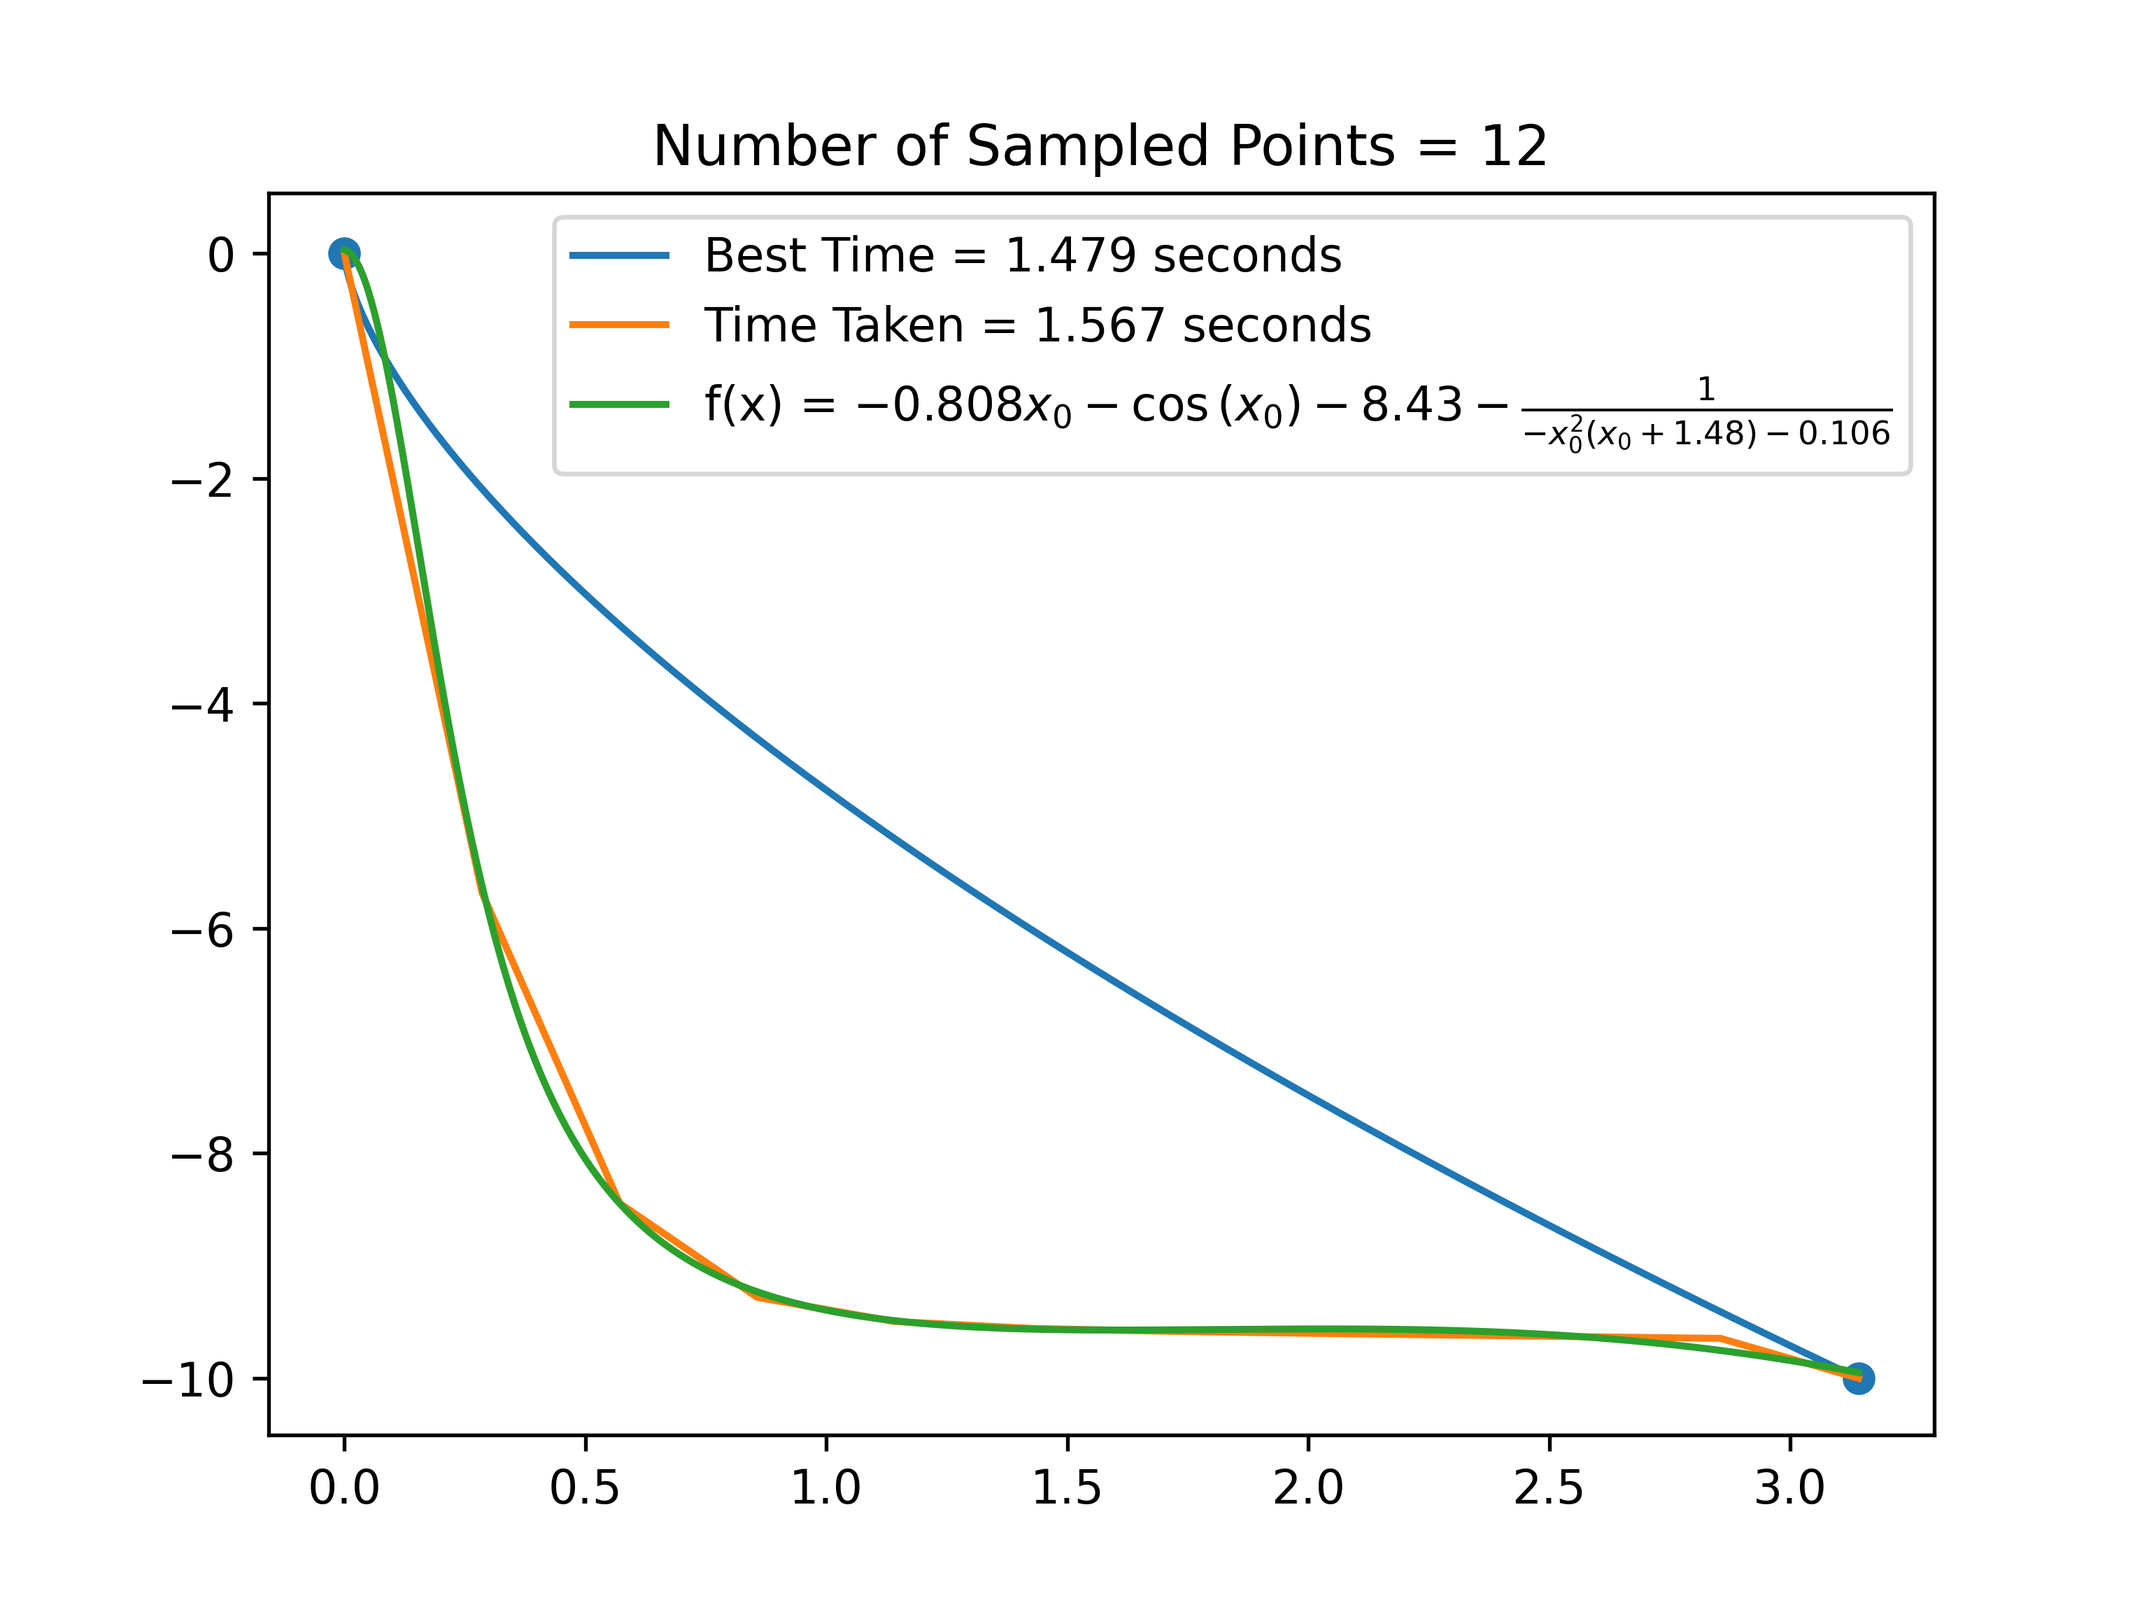
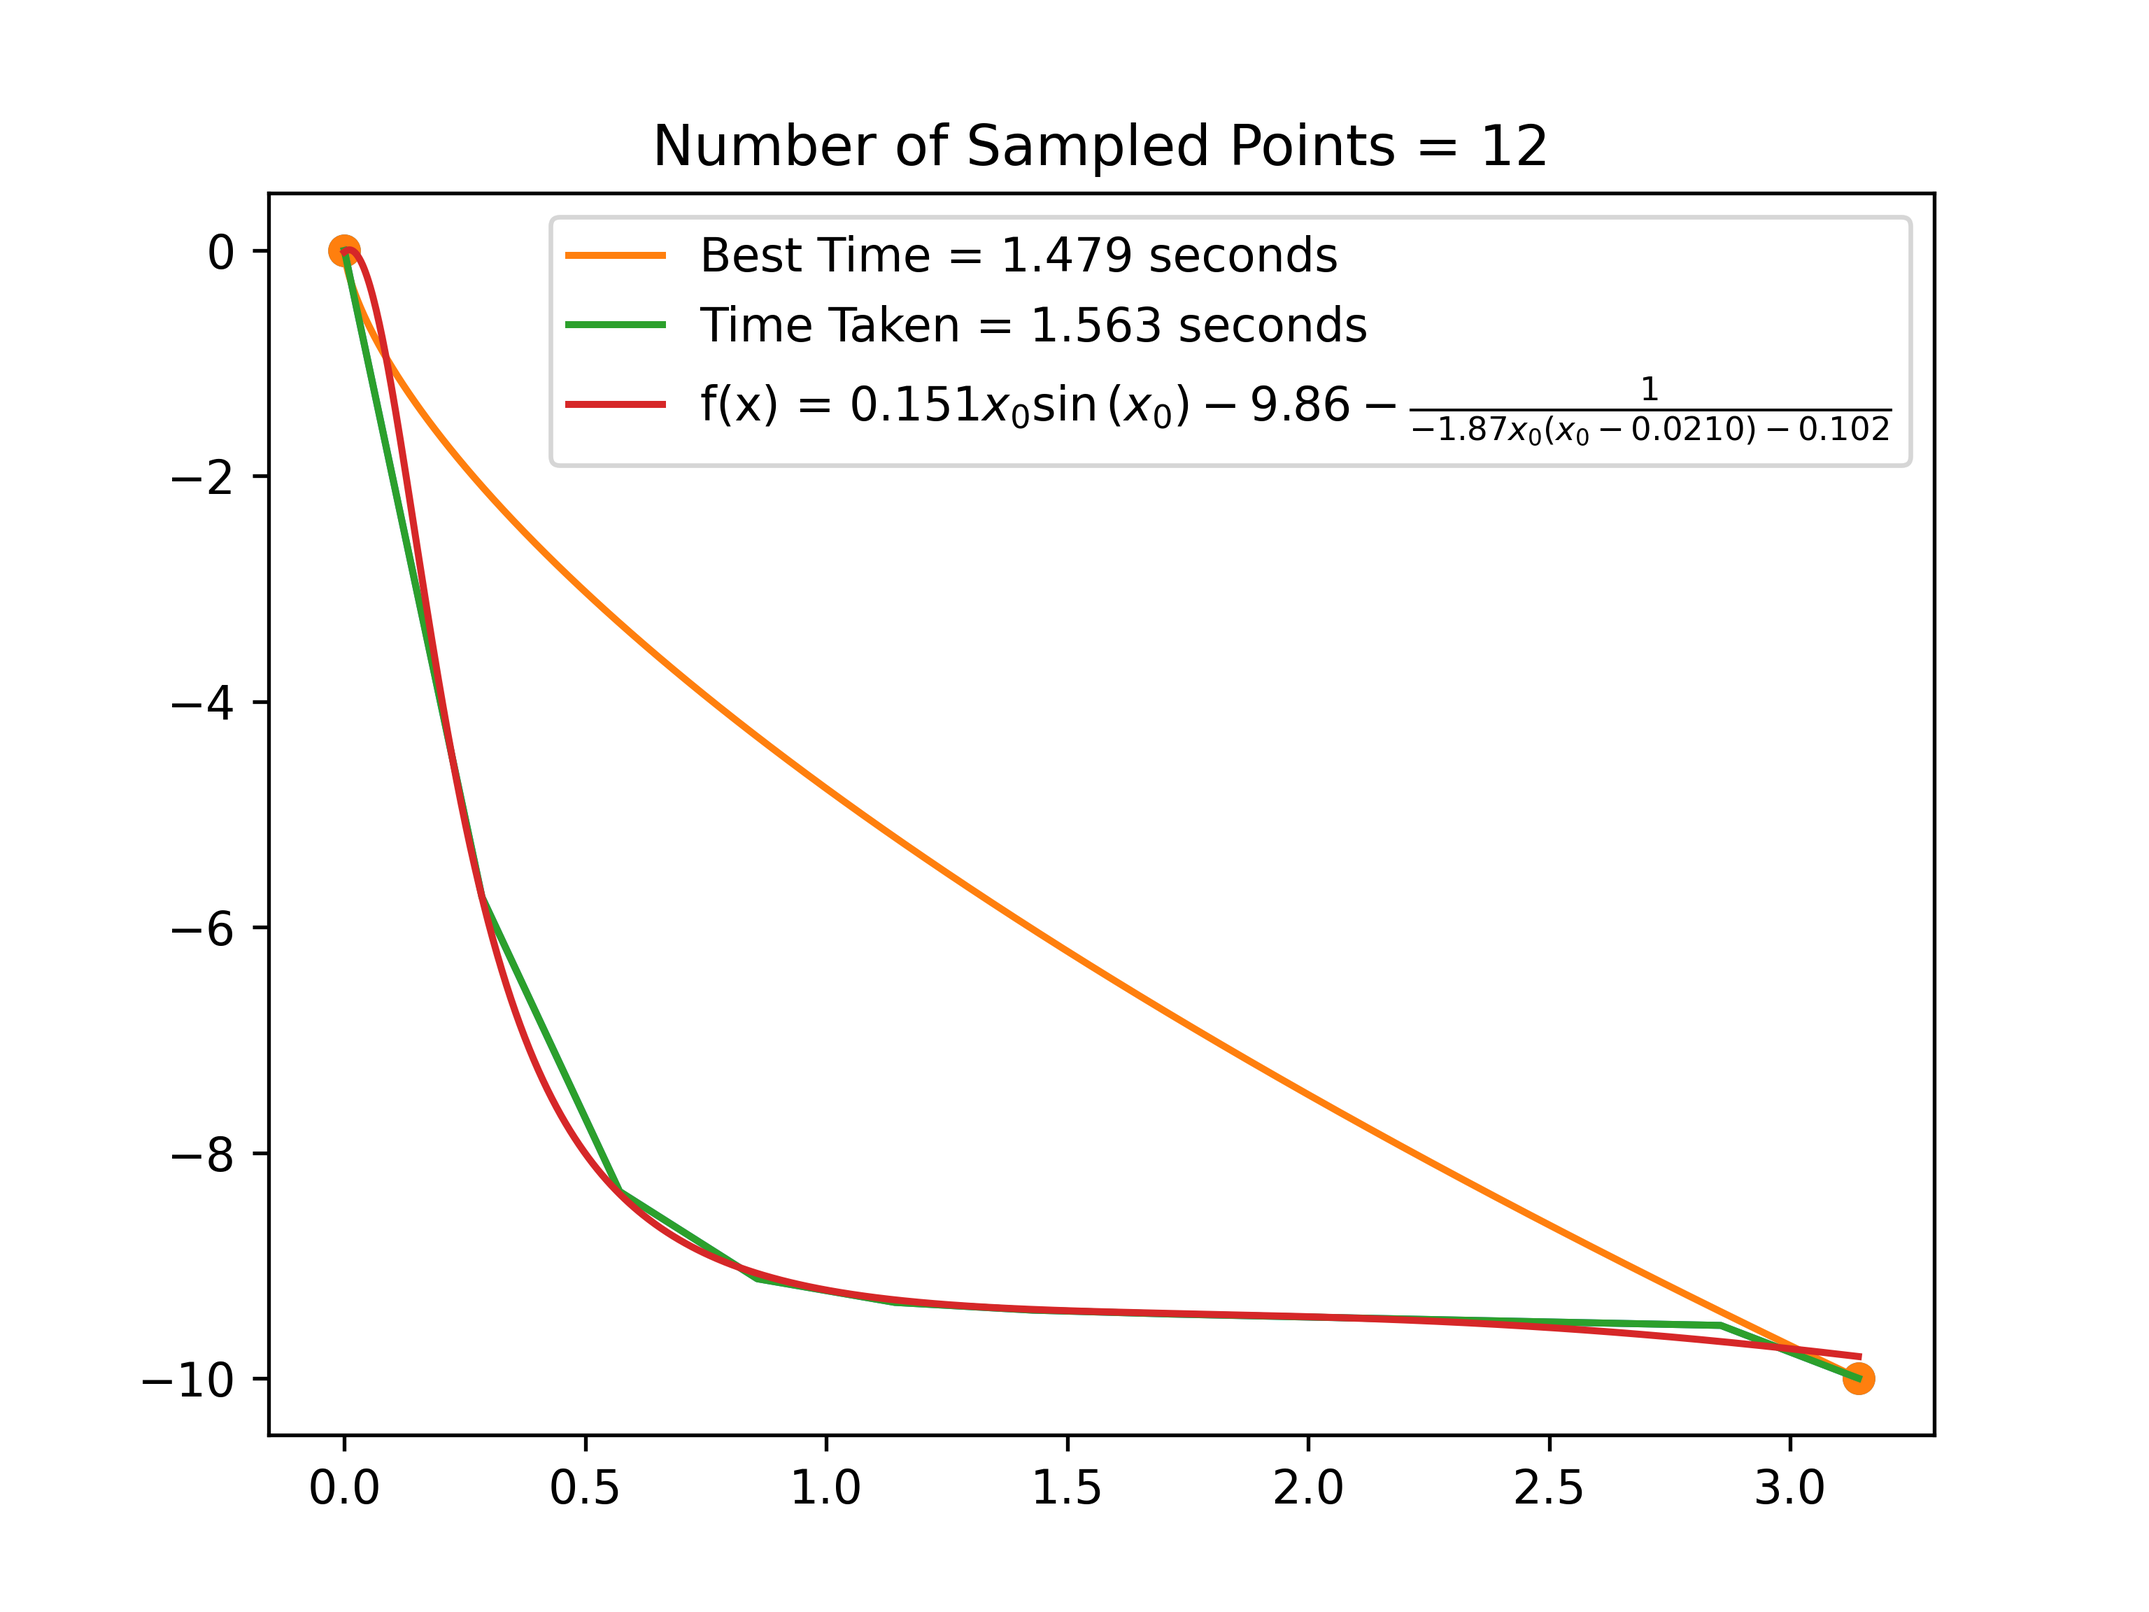
Added optimization to deap

diff --git a/RL_Brachistochrone_DSR.py b/RL_Brachistochrone_DSR.py
@@ -15,11 +15,10 @@ non-parametric form of the Brachistochrone
 # if hasattr(critic.output, '__len__') and len(critic.output) > 1: -> if
 # hasattr(critic.output, '__shape__') and len(critic.output) > 2:
 
-import sys
-sys.setrecursionlimit(10000)
 import warnings
-import sympy as sp
-from sympy import sin, cos
+import sys
+from sympy.utilities.lambdify import lambdify
+from sympy import symbols
 from rl.memory import SequentialMemory
 from rl.policy import BoltzmannQPolicy
 from rl.agents import DDPGAgent
@@ -33,16 +32,12 @@ from time import time
 import numpy as np
 import matplotlib.pyplot as plt
 from matplotlib.animation import FuncAnimation
-from scipy.optimize import ridder, fsolve, curve_fit
+from scipy.optimize import ridder, fsolve
 from gym import Env
 from gym.spaces import Box
-import operator
-from operator import add, sub, mul
-from deap import base, creator, tools, gp, algorithms
+from pysr import PySRRegressor
 from math import isclose
-import random
 import argparse
-import re
 import tensorflow as tf
 tf.compat.v1.disable_eager_execution()
 
@@ -586,13 +581,6 @@ def build_agent(env, actor, critic, action_input):
                      memory=memory, batch_size=32)
     return ddpg
 
-def is_float(string):
-    try:
-        float(string)
-        return True
-    except ValueError:
-        return False
-
 
 if __name__ == '__main__':
     parser = argparse.ArgumentParser()
@@ -658,12 +646,11 @@ if __name__ == '__main__':
         plt.plot(X, y, label=f"Time Taken = {test.best_t:.3f} seconds")
         plt.scatter((X[0], X[-1]), (y[0], y[-1]))
 
-        np.savetxt("RL_Brachistochrone_deap.txt", np.concatenate(
+        np.savetxt("RL_Brachistochrone.txt", np.concatenate(
             (np.expand_dims(X, axis=1), np.expand_dims(y, axis=1)), axis=1))
-        np.savetxt("RL_Brachistochrone_deap_best_time.txt", np.array([test.best_t]))
-
+        np.savetxt("RL_Brachistochrone_best_time.txt", np.array([test.best_t]))
     else:  # If symbolic regression didn't go well and you want to redo it
-        best_vals = np.loadtxt("RL_Brachistochrone_deap.txt")
+        best_vals = np.loadtxt("RL_Brachistochrone.txt")
 #        best_vals = np.loadtxt("train_data_25p.csv", delimiter=',')
         X = best_vals[:, 0]
         y = best_vals[:, 1]
@@ -673,226 +660,44 @@ if __name__ == '__main__':
             (X[0], y[0]), (X[-1], y[-1]))
         plt.plot(x_points, y_points,
                  label=f"Best Time = {optimal_time:0.3f} seconds")
-        best_t = np.loadtxt("RL_Brachistochrone_deap_best_time.txt")
+        best_t = np.loadtxt("RL_Brachistochrone_best_time.txt")
         plt.plot(X, y, label=f"Time Taken = {best_t:.3f} seconds")
         plt.scatter((X[0], X[-1]), (y[0], y[-1]))
-    
+
     # Symbolic Regression
     # ===================
+    # Code Taken from Here: https://github.com/MilesCranmer/PySR
+
     X = X.reshape(-1, 1)
-    # Define custom operators and unary functions
-    pset = gp.PrimitiveSet("main", 1)
-    def init_pset(pset, addConst: bool = True):
-        pset.addPrimitive(operator.add, 2)
-        pset.addPrimitive(operator.sub, 2)
-        pset.addPrimitive(operator.mul, 2)
-        def pow(base, power):
-            try:
-                result = abs(base)**power
-            except (OverflowError, ZeroDivisionError):
-                return np.inf
-            else:
-                return result
-        pset.addPrimitive(pow, 2)
-        pset.addPrimitive(np.sin, 1)
-        pset.addPrimitive(np.cos, 1)
-        if addConst:
-            pset.addEphemeralConstant("const", lambda: random.uniform(-10, 10))
-        def inv(x):
-            x = np.array(x)
-            return 1/x if np.all(x) else x
-        pset.addPrimitive(inv, 1)
-    init_pset(pset)
-    # Define custom loss function
-    def custom_loss(y_pred, y):
-        if np.allclose(y_pred, y_pred[0]):
-            return np.inf
-        loss = np.sum((y_pred - y) ** 2)
-        return loss
-        
-    # Define fitness function (minimize the loss)
-    creator.create("FitnessMin", base.Fitness, weights=(-1.0,))
-    creator.create("Individual", gp.PrimitiveTree, fitness=creator.FitnessMin)
-        
-    toolbox = base.Toolbox()
-    toolbox.register("expr", gp.genHalfAndHalf, pset=pset, min_=1, max_=3)
-    toolbox.register("individual", tools.initIterate, creator.Individual, toolbox.expr)
-    toolbox.register("population", tools.initRepeat, list, toolbox.individual)
+    model = PySRRegressor(
+        niterations=500,  # < Increase me for better results
+        binary_operators=["+", "-", "*"],
+        unary_operators=[
+            "cos",
+            #        "exp",
+            "sin",
+            "inv(x) = 1/x",
+            # ^ Custom operator (julia syntax)
+        ],
+        extra_sympy_mappings={"inv": lambda x: 1 / x},
+        # ^ Define operator for SymPy as well
+        loss="loss(x, y) = (x - y)^2",
+        nested_constraints = {"sin": {"cos": 0, "sin": 0}, "cos": {"cos": 0, "sin": 0}}
+        # ^ Custom loss function (julia syntax)
+    )
+    model.fit(X, y)
+    print(model.latex())
+    print(model.sympy())
+    model_selection = lambdify(symbols('x0'), model.sympy())
 
-    # Define other DEAP components and settings
-    toolbox.register("mate", gp.cxOnePointLeafBiased, termpb=0.1)
-    toolbox.register("mutate", gp.mixedMutate, expr=toolbox.expr, pset=pset, prob = [1, 0, 0])
-    toolbox.register("select", tools.selDoubleTournament, fitness_size=2, parsimony_size=1.4, fitness_first=True)
-#    toolbox.register("select", tools.selStochasticTournament, tournsize=3, prob = [1/3, 1/3, 1/3])
-#    toolbox.register("select", tools.selSPEA2)
-    def evaluate_individual(individual, X, y):
-        func = gp.compile(individual, pset)
-        y_pred = np.array([func(x) for x in X])
-        loss = custom_loss(y_pred, y)
-        return loss,
-    
-    def optimize_individual(individual, X, y, pset):
-        constants = []
-        individual_string = str(individual)
-        for i in individual:
-            if is_float(i.name):
-                constants.append(i.name)
-        
-        arity = 1
-        for i in constants:
-            ArgString = f"ARG{arity}"
-            individual_string = individual_string.replace(i, ArgString)
-            arity+=1
-
-        temp_pset = gp.PrimitiveSet("temp_main", arity)
-        init_pset(temp_pset, False)
-        temp_individual = creator.Individual.from_string(individual_string, temp_pset)
-        temp_func = gp.compile(temp_individual, temp_pset)
-        
-        func = gp.compile(individual, pset)
-        y_pred = np.array([func(x) for x in X])
-        loss = custom_loss(y_pred, y)
-        assert(len(constants) == arity-1)
-        if constants:
-            try:
-                
-#                parameters, covariance = curve_fit(temp_func, X.flatten(), y, p0 = (arity-1)*[1])
-#                print(constants, type(constants))
-                parameters, covariance = curve_fit(temp_func, X.flatten(), y, p0 = [float(i) for i in constants])
-                if "nan" in str(parameters):
-                    raise RuntimeError
-                arity = 1
-                for i in parameters:
-                    ArgString = f"ARG{arity}"
-                    individual_string = individual_string.replace(ArgString, f"{i}")
-                    arity+=1
-                if "ARG0" in individual_string:
-                    temp_pset = gp.PrimitiveSet("temp_main", 1)
-                    init_pset(temp_pset, False)
-                    temp_individual = creator.Individual.from_string(individual_string, temp_pset)
-                    temp_func = gp.compile(temp_individual, temp_pset)
-                    y_pred = np.array([temp_func(x) for x in X])
-                else:
-                    temp_pset = gp.PrimitiveSet("temp_main", 0)
-                    init_pset(temp_pset, False)
-                    temp_individual = creator.Individual.from_string(individual_string, temp_pset)
-                    temp_func = gp.compile(temp_individual, temp_pset)
-                    y_pred = np.array([temp_func for x in X])
-                    
-                
-                
-
-                loss = custom_loss(y_pred.flatten(), y.flatten())
-                individual = temp_individual
-            except RuntimeError:
-                return loss, individual
-
-        return loss, individual
-
-    toolbox.register("evaluate", evaluate_individual, X=X, y=y)
-    
-    def feasible(individual):
-        """Feasibility function for the individual. Returns True if feasible False
-        otherwise."""
-        tree = gp.PrimitiveTree(individual)
-        if len(tree) <= 9 and tree.height <= 2:
-            return True
-        return False
-    
-    def distance(individual):
-        """A distance function to the feasibility region."""
-        tree = gp.PrimitiveTree(individual)
-        complexity = len(tree)
-        height = tree.height
-        return 0 if complexity <= 9 and height <= 2 else (complexity - 9)**2 + (height - 2)**2
-    
-#    https://deap.readthedocs.io/en/master/tutorials/advanced/constraints.html
-    toolbox.decorate("evaluate", tools.DeltaPenalty(feasible, np.inf, distance))
-    
-    pop = toolbox.population(n=100)
-    best_loss = np.inf
-    best_individual = None
-    best_func = None
-        
-    # Run the evolutionary algorithm
-    try:
-        while True:
-            # Run one generation of the algorithm
-            algorithms.eaSimple(pop, toolbox, cxpb=0.2, mutpb=0.5, ngen=1, stats=None, verbose = False, halloffame=tools.ParetoFront())
-            
-#            algorithms.eaMuCommaLambda(pop, toolbox, mu=50, lambda_=100, cxpb=0.2, mutpb=0.5, ngen=1, stats=None, halloffame=tools.ParetoFront(), verbose=False)
-                        
-            # Calculate the loss value of the best individual
-            individual = tools.selBest(pop, k=1)[0]
-    
-            func = gp.compile(individual, pset)
-            try:
-                y_pred = func(X)
-                y_pred = y_pred.flatten()
-            except Exception as e:
-                if isinstance(y_pred, float):
-                    y_pred = np.full_like(X, fill_value = y_pred)
-                elif isinstance(y_pred, complex):
-                    y_pred = np.full_like(X, fill_value = 1)
-                else:
-                    print(func(X), type(func(X)), X.shape)
-                    print(f"\n\nAn exception of type {e.__class__.__name__} was raised and caught\n")
-            
-            loss = np.sum((y_pred-y)**2)
-            
-            if loss < best_loss:
-                best_loss = loss
-                best_individual = individual
-                best_func = func
-                test_loss, individual = optimize_individual(individual, X, y, pset)
-                if test_loss < best_loss:
-                    pop[pop.index(best_individual)] = individual
-                    print("best_loss = %.2f, test_loss = %.2f"%(best_loss, test_loss))
-                    print(f"best_individual = {best_individual}, test_individual = {individual}")
-                    best_individual = individual
-
-                    best_loss = test_loss
-                print(f"New Best Loss = {best_loss}")
-                print("Best individual:", best_individual)
-                print("Complexity =",len(gp.PrimitiveTree(best_individual)))
-                print("Height =",gp.PrimitiveTree(best_individual).height)
-                
-#without optimize: [37.859226569028905, 35.1214099876172, 43.81847922442325, 52.860711676426305, 34.80585717962242]
-#with optimize: [34.231363176126585, 33.193049785343156, 34.23136317612658, 34.231363176126585, 34.23136317615006]
-
-                
-    except KeyboardInterrupt:
-        print(f"Best Loss = {best_loss}")
-        x_start = X[0]
-        x_end = X[-1]
-        x_points = np.linspace(x_start, x_end, 1000)
-        
-        ARG0 = sp.symbols('ARG0')
-        expr = sp.sympify(str(best_individual))
-        expr = sp.latex(expr)
-        
-        floats = [float(i) for i in re.findall(r"\d+\.\d+",expr)]
-        non_floats = re.split(r"\d+\.\d+",expr)
-        
-        new_expr = ""
-        length = min(len(floats), len(non_floats))
-        
-        float_start_idx = expr.index(str(floats[0]))
-        non_float_start_idx = expr.index(str(non_floats[0]))
-
-        if (non_float_start_idx < float_start_idx): #Then it starts with non float
-            for i in range(length):
-                new_expr += non_floats[i] + f"{floats[i]:0.3f}"
-            new_expr += non_floats[-1]
-        else: #Then it starts with float
-            for i in range(length):
-                new_expr += f"{floats[i]:0.3f}" + non_floats[i]
-            new_expr += f"{floats[-1]:0.3f}"
-        
-        plt.plot(x_points, best_func(x_points),
-                 label=rf"f(x) = ${new_expr}$")
-        plt.legend()
-        # Save the figure and show your friends! :)
-        if best_loss < 1.143478788005876:
-            print("New best")
-            plt.savefig("RL_Brachistochrone_deap.png", dpi=5 * 96)
+#    x_points = np.linspace(10**x_start, 10**x_end, 1000)
+    x_start = X[0]
+    x_end = X[-1]
+    x_points = np.linspace(x_start, x_end, 1000)
+    plt.title(f"Number of Sampled Points = {len(X)}")
+    plt.plot(x_points, model_selection(x_points),
+             label=rf"f(x) = ${model.latex()}$")
+    plt.legend()
+    # Save the figure and show your friends! :)
+    plt.savefig("RL_Brachistochrone.png", dpi=5 * 96)
+    print("Best loss:", np.sum((model_selection(X).flatten()-y)**2))
